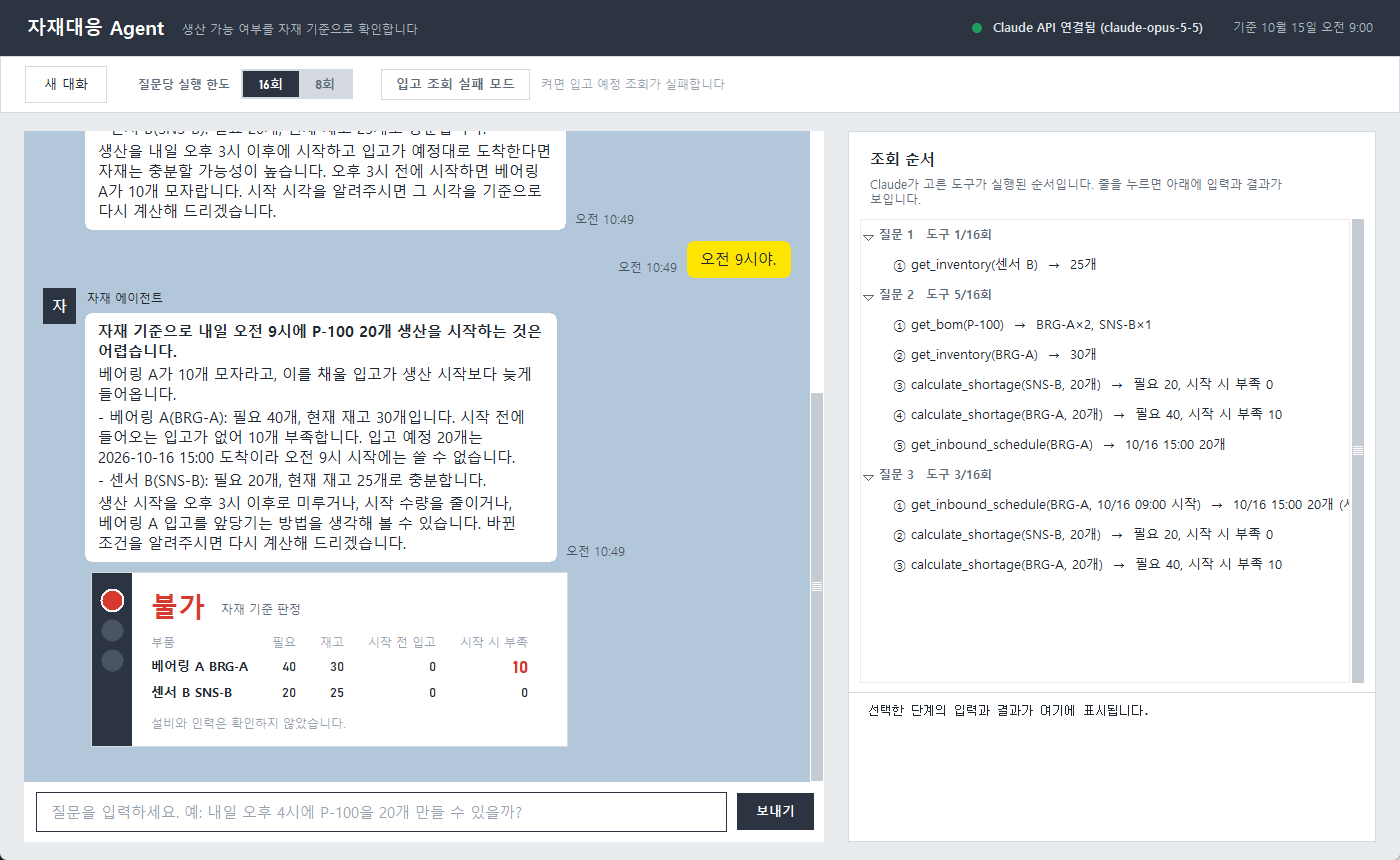
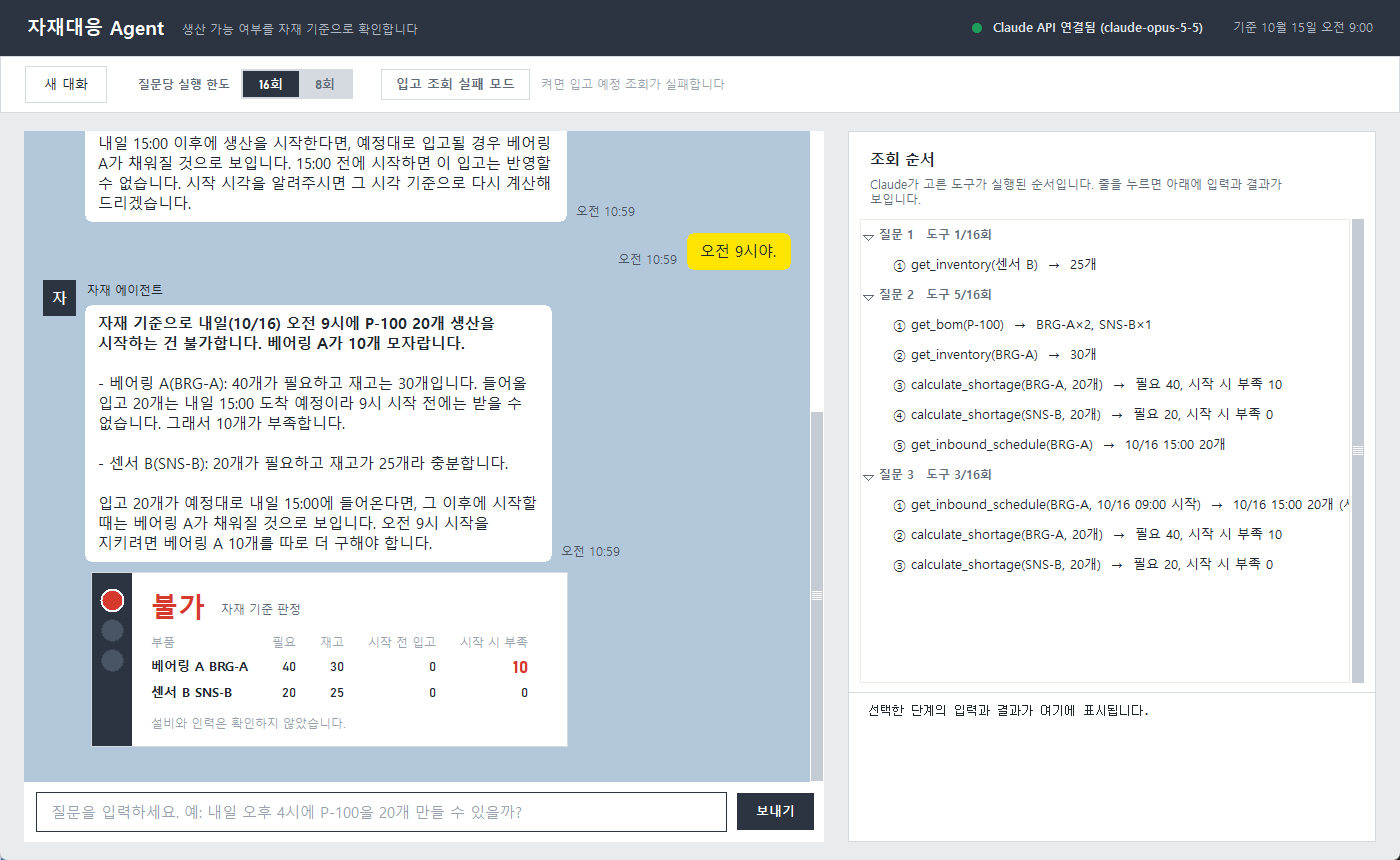
feat: blank-line spacing between agent answer lines

diff --git a/app.py b/app.py
@@ -98,19 +98,21 @@ class Bubble(tk.Canvas):
     RADIUS = 16
 
     def __init__(self, master, lines: list[tuple[str, bool]], fill: str, fonts: Fonts,
-                 wrap: int = BUBBLE_WRAP, padx: int = 14, pady: int = 9, bg: str = CHAT_BG):
+                 wrap: int = BUBBLE_WRAP, padx: int = 14, pady: int = 9, bg: str = CHAT_BG,
+                 line_gap: int = 3):
         super().__init__(master, bg=bg, highlightthickness=0, bd=0)
         self.lines = lines
         self.fill = fill
         self.text = "\n".join(t for t, _ in lines)
+        self.line_gap = line_gap  # 줄(문장·목록 항목) 사이 간격. 자동 줄바꿈된 부분에는 적용되지 않음
         y, width = pady, 0
         for text, bold in lines:
-            item = self.create_text(padx, y, text=text, anchor="nw", width=wrap, fill=TEXT,
+            item = self.create_text(padx, y, text=text, anchor="nw", width=wrap, fill=TEXT, tags=("line",),
                                     font=fonts.chat_bold if bold else fonts.chat)
             x1, y1, x2, y2 = self.bbox(item)
             width = max(width, x2 - padx)
-            y = y2 + 3
-        w, h = width + 2 * padx, y - 3 + pady
+            y = y2 + line_gap
+        w, h = width + 2 * padx, y - line_gap + pady
         self.configure(width=w, height=h)
         shape = _round_rect(self, 1, 1, w - 1, h - 1, min(self.RADIUS, h // 2), fill=fill, outline=fill)
         self.tag_lower(shape)
@@ -565,7 +567,9 @@ class MaterialApp(tk.Frame):
         line_row = tk.Frame(col, bg=CHAT_BG)
         line_row.pack(anchor="w")
         styled = [(line.replace("**", ""), line.lstrip().startswith("**")) for line in lines]
-        bubble = Bubble(line_row, styled, AGENT_BUBBLE, f)
+        # 에이전트 답변은 줄마다 빈 줄 하나만큼 띄워 읽기 쉽게 한다
+        blank_line = tkfont.Font(font=f.chat).metrics("linespace")
+        bubble = Bubble(line_row, styled, AGENT_BUBBLE, f, line_gap=blank_line)
         bubble.pack(side="left")
         tk.Label(line_row, text=stamp, bg=CHAT_BG, fg=CHAT_MUTED, font=f.small).pack(side="left", anchor="s", padx=6)
         self.agent_bubbles.append(bubble)

diff --git a/tests/test_app.py b/tests/test_app.py
@@ -248,3 +248,15 @@ def test_andon_tower_is_compact(root):
 def test_entry_has_placeholder_until_focus(root):
     app = make_app(root, FakeAgent(TurnResult("x", [])))
     assert app.entry.get() == "" and app.placeholder.winfo_manager() != ""
+
+
+def test_agent_lines_separated_by_blank_line(root):
+    from tkinter import font as tkfont
+    app = make_app(root, FakeAgent())
+    app._append_message("에이전트", "첫 문장입니다.\n- 둘째 줄", "agent")
+    bubble = app.agent_bubbles[-1]
+    first, second = bubble.find_withtag("line")
+    gap = bubble.coords(second)[1] - bubble.bbox(first)[3]
+    assert gap >= tkfont.Font(font=app.fonts.chat).metrics("linespace") * 0.8
+    app._append_message("나", "오전 9시야", "user")
+    assert app.user_bubbles[-1].line_gap < app.agent_bubbles[-1].line_gap

diff --git a/process.md b/process.md
@@ -16,3 +16,4 @@
 | 2026-10-15 | docs: scenario verification and README | 말풍선을 둥근 모서리로 변경, 새 메시지가 오면 맨 아래까지 스크롤. 질문 모음 9개·대화 시나리오 5개를 실제 API로 실행해 기대 결과와 대조(docs/검증/시나리오_검증.md, 13개 시나리오 모두 통과, 실행 원본 포함). README(설치·실행·화면·도구·시연 순서·검증·구조)와 화면 스크린샷 2장(오전 9시 불가, 입고 조회 실패 확인 불가). 테스트 71개 통과 |
 | 2026-10-15 | fix: address final review findings | 최종 검토 반영: ① 입고 조회·부족량 계산도 부품명("베어링 A")·하이픈/공백 변형을 같은 부품으로 처리, 모르는 부품은 "입고 예정 없음"이 아니라 오류 ② 판정 카드가 Claude가 계산 도구에 넣은 소요량·재고·시작 전 입고 합계를 실제 조회 결과와 대조해 다르면 카드를 띄우지 않음(다른 시작 시각의 입고 수량 재사용 방지) ③ 잘못된 시작 시각 같은 입력 오류는 "입고 조회 실패"로 표시하지 않음(조회 자체 실패만 확인 불가). 테스트 84개 통과 |
 | 2026-10-15 | feat: andon-style UI redesign (frontend-design) | frontend-design 스킬 설치 후 디자인 방향을 정해 화면 개선: 판정 카드를 공장 라인 안돈 신호등(빨강·주황·초록 중 한 칸만 점등, 확인 불가는 모두 꺼짐)으로, 강철색 헤더·작업장 바닥색 배경·흰 조작 줄, 수량·판정은 Bahnschrift 글꼴, 오른쪽 "조회 순서"는 ①②③ 번호와 짧은 입력 표시(시각은 10/16 09:00 시작), 입력칸 테두리와 안내 문구, 가운뎃점 나열·군더더기 문구 정리. 카톡형 대화창은 유지. README 화면 설명·스크린샷 갱신. 테스트 92개 통과 |
+| 2026-10-15 | feat: blank-line spacing between agent answer lines | 에이전트 답변 말풍선에서 줄(문장·목록 항목) 사이를 빈 줄 하나만큼 띄워 가독성 개선(자동 줄바꿈된 부분은 그대로). 내 메시지는 기존 간격 유지. README 스크린샷 갱신. 테스트 93개 통과 |
